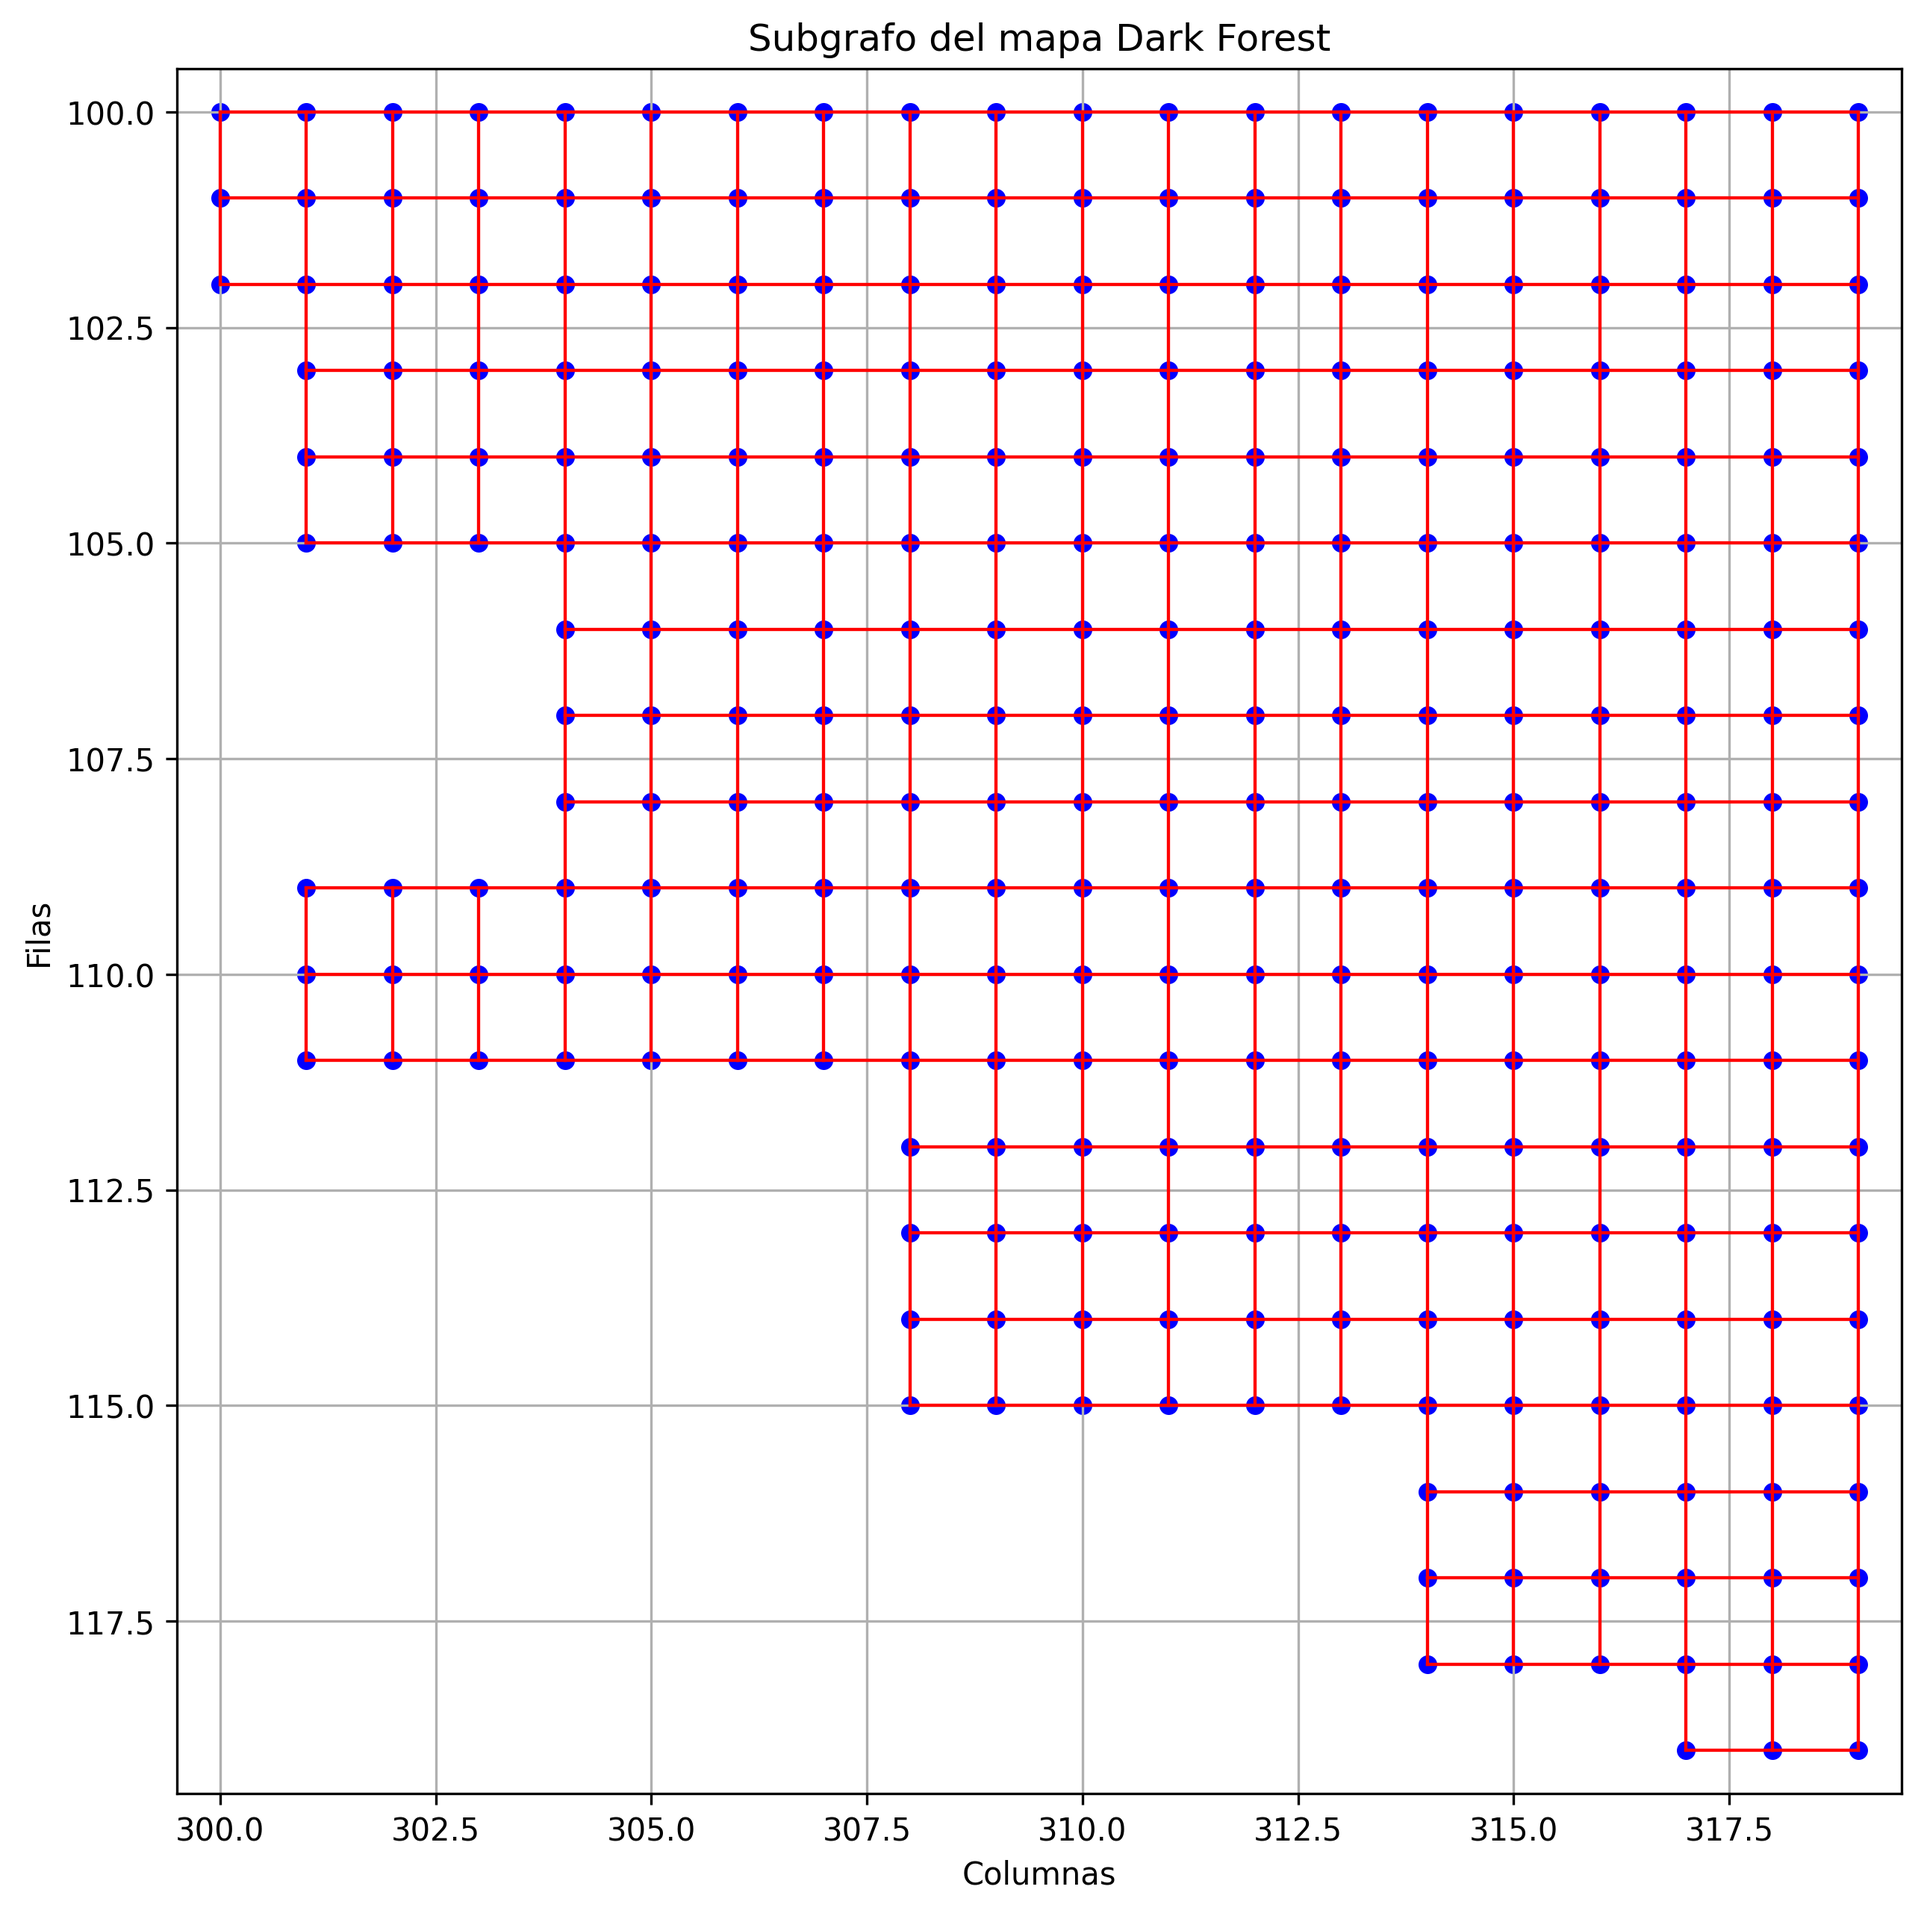
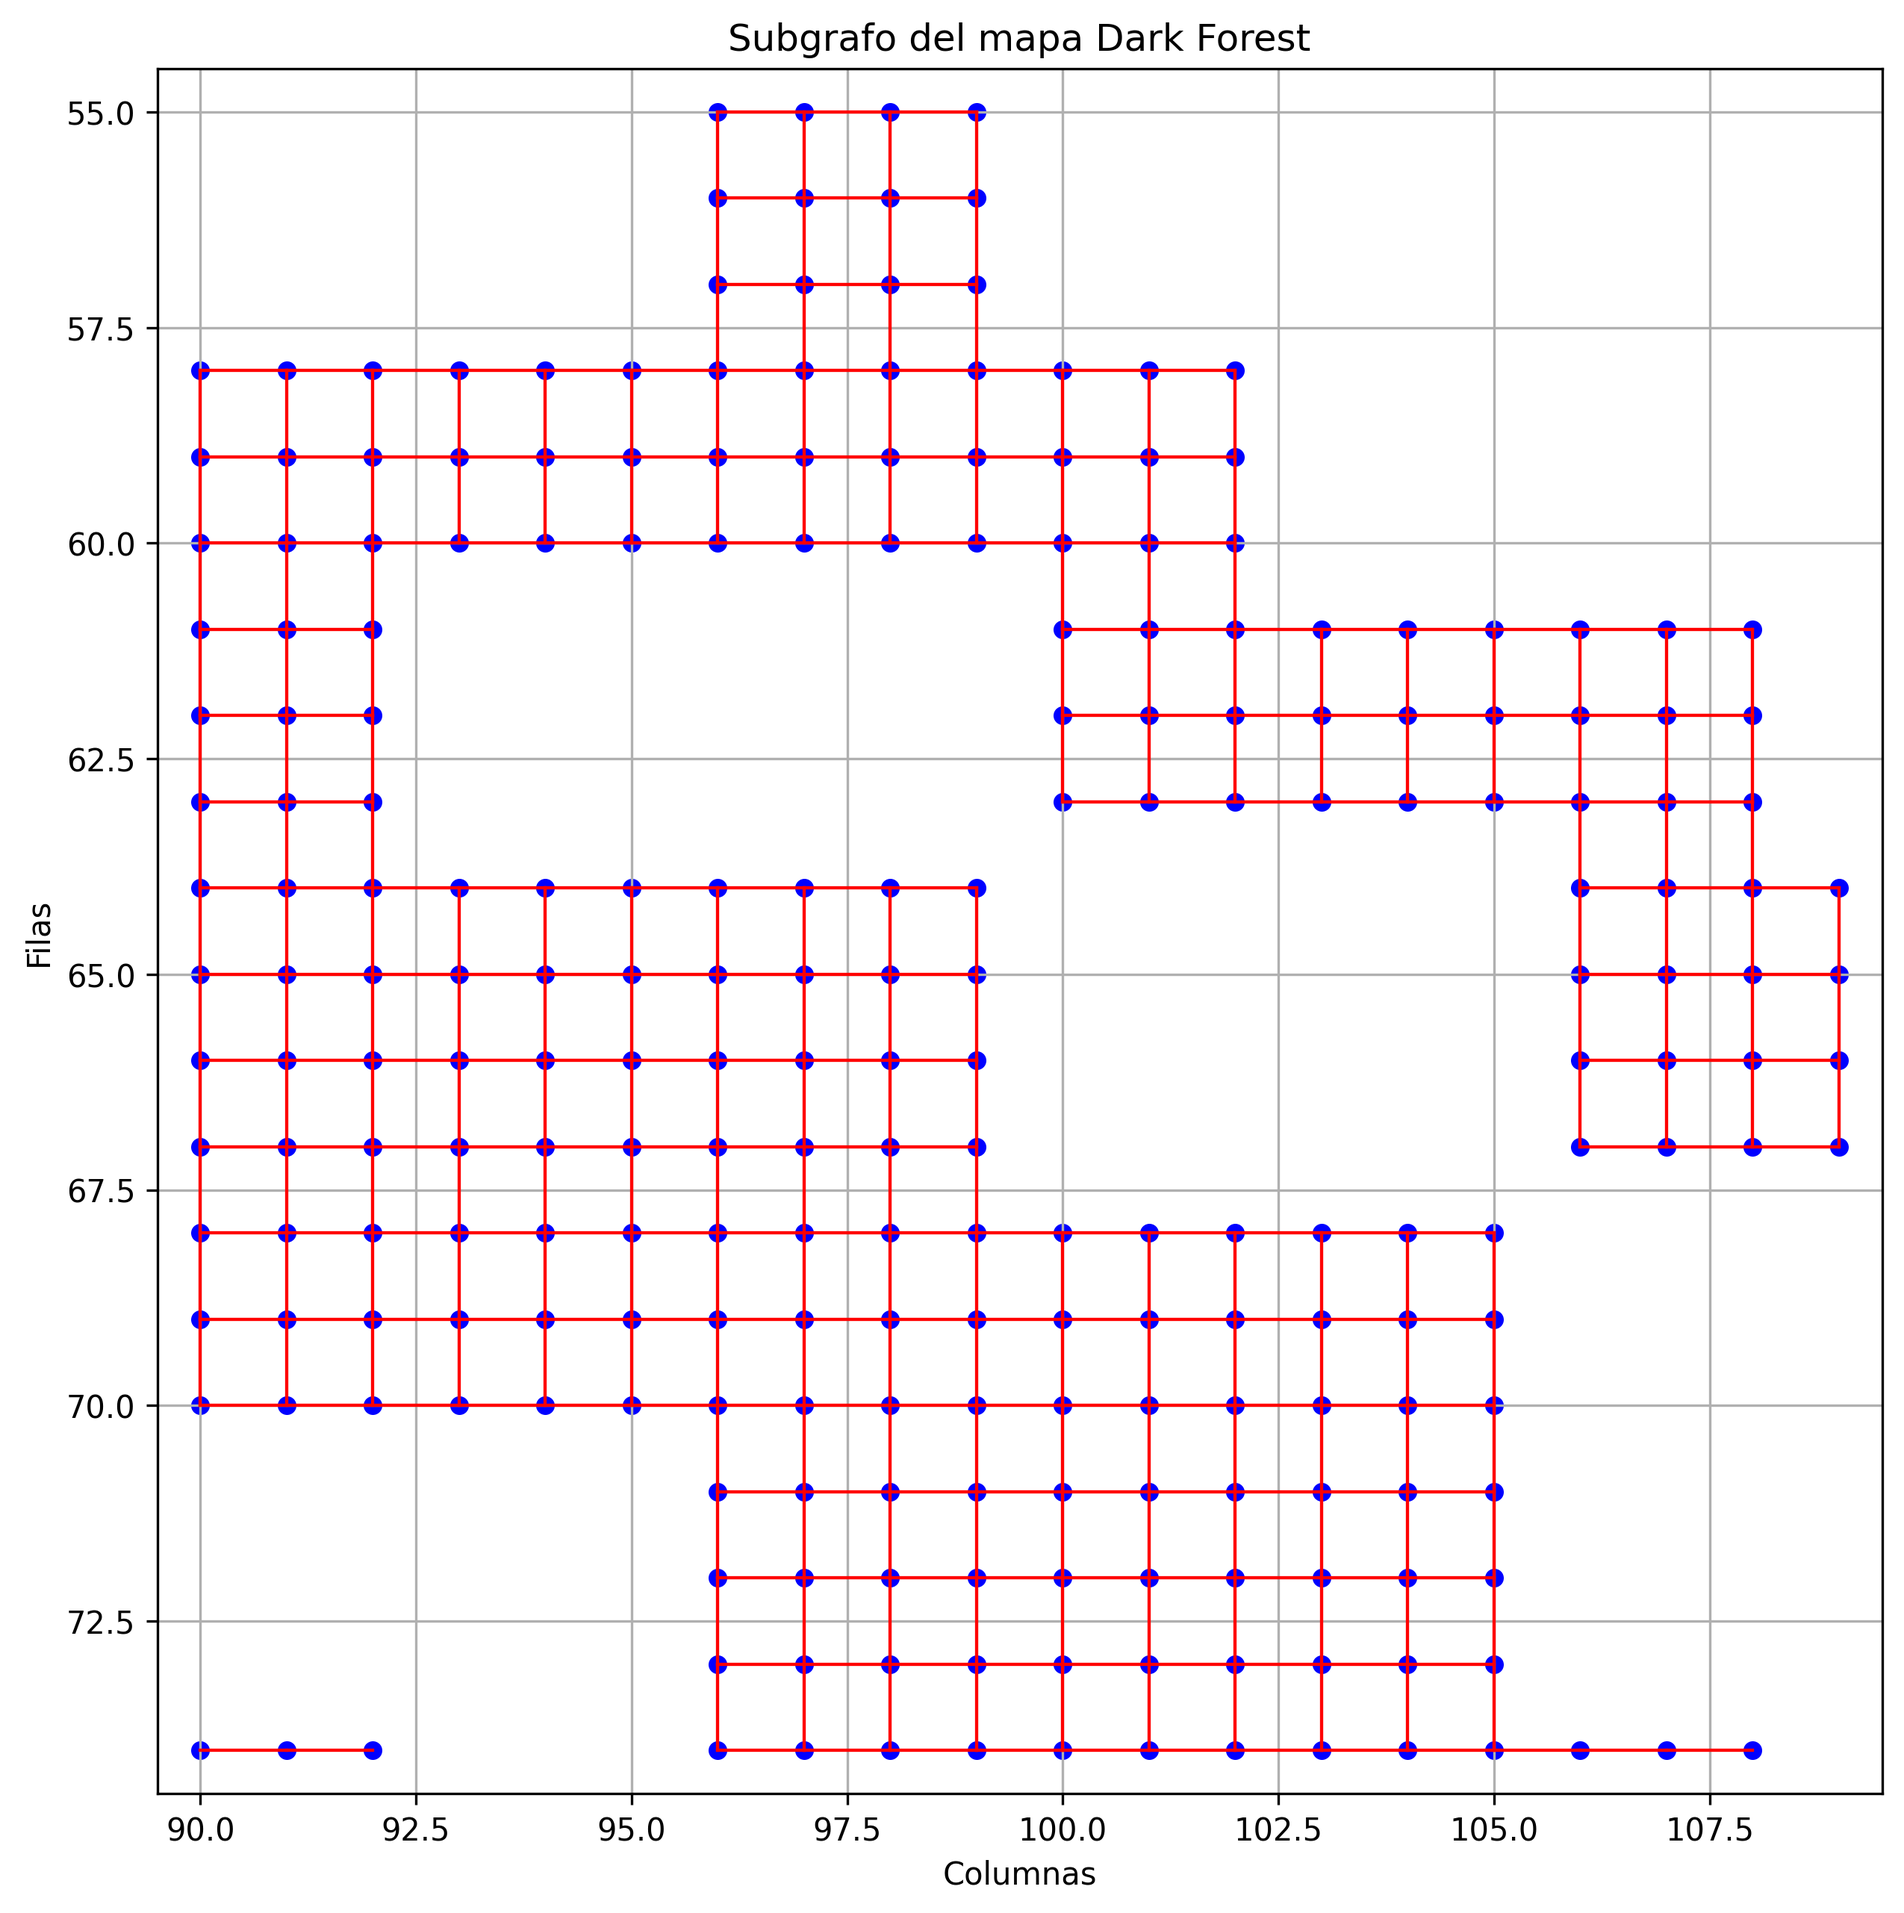
Implementacion visual del sub grafo del mapa

diff --git a/NPC_PathFinder.py b/NPC_PathFinder.py
@@ -178,6 +178,8 @@ def visualizar_subgrafo(grafo, fila_inicio, columna_inicio, tamano):
     plt.show()
 
 
+
+
 # -------------------------
 # Programa principal
 # -------------------------
@@ -199,7 +201,7 @@ print("Cantidad de aristas:", contar_aristas(grafo))
 # Visualización de un subgrafo
 visualizar_subgrafo(
     grafo,
-    fila_inicio=100,
-    columna_inicio=300,
+    fila_inicio=55,
+    columna_inicio=90,
     tamano=20
-)
+)  
